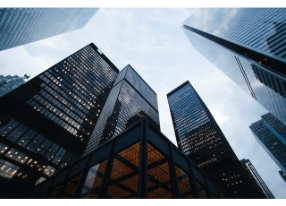
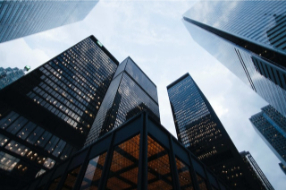
fixade vit kant över card images

diff --git a/style.css b/style.css
@@ -73,7 +73,7 @@
 
 .card-img-top {
   width: 286px;
-  height: 206px;
+  height: 190px;
 }
 
 .system-cards:hover {
